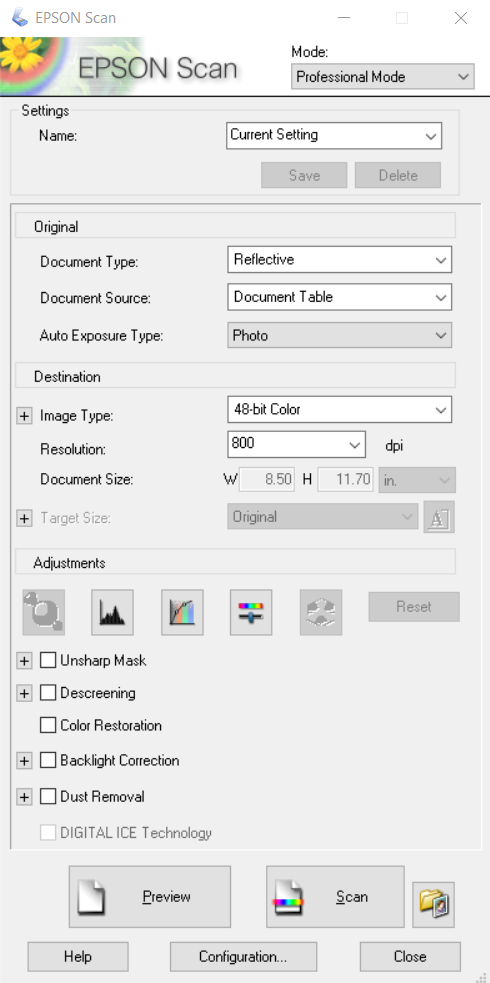
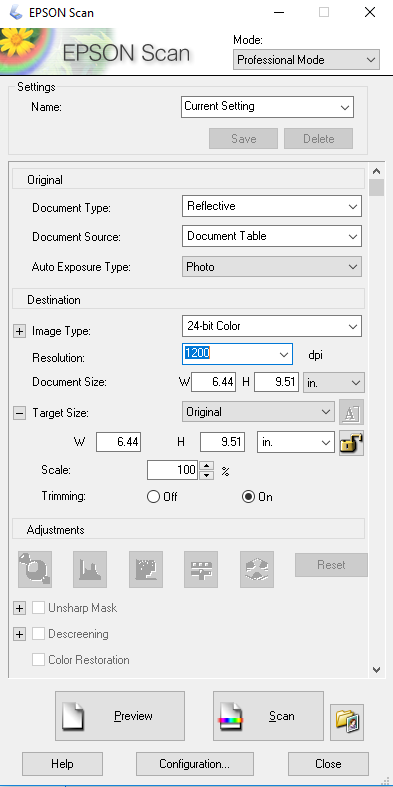
Tons of edits from Hubz

diff --git a/content/getting-started/scanning-standards.md b/content/getting-started/scanning-standards.md
@@ -9,13 +9,19 @@ For most purposes, outside of photographs or slides, 24-bit color is sufficient 
 
 The purpose of 48-bit is for primarily reducing banding in smooth vignette/gradients while doing color and gradation (curves) adjustments in image editing programs. However the vast majority of game media (Boxes, Manuals, Labels etc.) were screen printed which means the artwork consists of CMYK dots. These are solid color dots mixed together which don’t produce vignettes/gradients.  If you zoom in on a 1200DPI scan at 100% you can easily make out the dots. A zoomed in 1200DPI scan will look a lot like what you’d see with a microscope on the physical item you’re scanning.
 
-We will keep the table of scanning standards as is, but leave it up to you, dear reader, to decide how you want to proceed.
+## What quality should I choose?
 
-## Scanning standards
+We will keep the table of scanning standards as is, but leave it up to you, dear reader, to decide how you want to proceed. The **Good** tier is required for the scan to be considered a VGPC/VGSC scan, and the **Overkill is not needed for our purposes right now**.
 
-| Tier	| Purpose of Tier	| DPI	|Bit Depth	|Format	|Post Processing	|Pre Processing	|ICC Profile	|RAW Files	|Inscan Color Swatches	|Flattening |
-|-|-|-|-|-|-------------------|---------------|---------------|-----------|-----------------------|------------|
-|Gold / Mastering	| To reproduce scanned media (digitally and physically) as close to the original as possible.	|1200 minimum 	|48	|TIFF + any (lossless) compression	|None - cropping OK	|None	|Calibrated for individual scanner	|Y	|Y	|No - HIGHLY encouraged (copper plates preferred). Media Compressed for 10 mins prior to, then while scanning|
-|Silver  |Preserve an artifact with a fair degree of reproduction	|1200	|48	|TIFF + any (lossless) compression	|None - cropping OK	|None	|Calibrated for individual scanner or Using generic profile for specific scanner model  |Y  |N 	|No|
-|Bronze	|Best Effort settings	|600	|24	|PNG or TIFF + any (lossless) compression	|None - cropping OK	|None	|Calibrated for individual scanner or  Using generic profile for specific scanner model	|Y	|N	|No|
-|Copper	|Catch and catalog all scanned video game related media for later rescanning	|Below 600 true / optical <br/> Any and all interpolated	|Any	|Any	|Any	|Any	|Any	|Y or N	|N	|No|
+## Color guides and flattening
+
+For the **Tiffen/Kodak Q-13 Color Separation Guides**, we recommend scanning in the guide as a separate scanned  image with the batch of items that are being scanned that date. Preferrably name that specific scan with the date for easy tracking.
+
+Regarding **Flattening**, it is _highly_ encouraged (copper plates preferred), but not required. Media can be compressed for 10 mins prior to, then while scanning (adding weight on top of the scanner). If your media is too bent or creased and no flattening will work, scan it anyway. A bent scan is better than no scan.
+
+## Scanning standards and requirements
+
+| Tier | Purpose of Tier | DPI | Bit Depth |Format |Post Processing | Pre Processing | ICC Profile |RAW Files	| Tiffen/Kodak Q-13 Color Separation Guide |Flattening |
+|--------|------------------|-|-|-|-------------------|---------------|---------------|-----------|-----------------------|------------|
+| Overkill | To reproduce scanned media (digitally and physically) as close to the original as possible.	| 1200 minimum | 48 | TIFF + any (lossless) compression	| None - cropping OK | None | Calibrated for individual scanner | Y | Y | No |
+| Good | Preserve an artifact with a good degree of reproduction | 1200 | 24 | PNG, due to its compression savings and compatibility | None - cropping OK | None | Calibrated for individual scanner or Using generic profile for specific scanner model | Y | N | No |

diff --git a/content/software/vuescan.md b/content/software/vuescan.md
@@ -5,25 +5,29 @@ weight: 3
 
 ## Scanning RAW Images with VueScan
 
+Vuescan is really only recommended when you’re unable to use your built in scanner software such as Epson Scan or CanoScan. This is due to the fact that the manufacturer's software is tuned to get the best results from their own hardware and it’s also free. However this isn’t always possible with some older scanner models or when using Linux. Vuescan can still be used but it’s a bit trickier to use and might be unstable. It’s also unfortunately not free and for our uses you’ll need to purchase the Professional Edition for it’s RAW scanning capabilities. Below are instructions on properly configuring Vuescan for our uses.
+
 Open up VueScan and make sure to set the Input tab with the following settings. Also below is a screenshot of how it _might look_ (Options differ depending on scanner model used).
 
-1. Options: Professional
-2. Task: Profile Scanner
-3. Bits per pixel: 24 bit RGB (You can do up to 48 bit RGB if you like but it is not required.)
-4. Scan resolution: Custom
-5. Scan dpi: 1600 for Epson brand scanners, 1200 for Canon brand scanners. 600dpi is acceptable only if you're unable to go higher without image issues, or what you're scanning is in great shape and undamaged.
-6. Source: Make sure your scanner is visible / selected.
+1. **Options**: Professional
+1. **Task**: Scan to File
+1. **Bits per pixel**: 24 bit RGB (You can do up to 48 bit RGB if you like but it is not required. Also a big GOTCHA with Vuescan and 48-bit is that if you cannot create an IT8 profile for your scanner DO NOT scan in 48-bit. Vuescan’s 48-bit RAW scans alters the curves and gamma of your scans that are difficult to fix without a proper IT8 calibration. Please only use 24-bit if you’re not going to do IT8 calibration!)
+1. **Scan resolution**: Custom
+1. **Scan DPI**: 1200DPI or 1600DPI (Depends what your scanner will allow you to pick, go 1200 if you can)
+1. **Source**: Make sure your scanner is visible / selected.
 
-![image](/img/VueScan1.jpg)
 
-7. Next ensure the "Crop" tab is set to "Crop size: Auto".
-8. Finally in the "Output" tab make the following changes:
-9. Uncheck "PDF file".
-10. Check "Raw file".
-11. Tiff file type: "24 bit" (You can do up to 48 bit RGB if you like but it is not required.)
-12. Raw output with: "Scan"
+![image](/img/VueScan1.png)
+
+1. Next ensure the “Crop” tab is set to “**Crop size**: Manual”.
+1. Finally in the “**Output”** tab make the following changes:
+1. Make sure “**Raw file**” is the only thing checked for file type.
+1. **Raw file type**: 24 bit (You can do up to 48 bit RGB if you like but it is not required.)
+1. **Raw output with**: Scan
+1. **Raw Compression**: Off
 
 ![image](/img/VueScan2.png)
 
-13. In the upper left app menu choose "File" > "Save Settings".
-14. In the bottom left of the app choose "Preview" to see your scan, this might not look like your final output, however don't worry if the preview looks off, go ahead and draw your cropping box around your image and select the Scan button. If your output looks like a dark RAW image you're good to go!
+11. **Make sure to save your settings.**
+
+In the bottom left of the app choose “**Preview**” to see your scan, this might not look like your final output, however don’t worry if the preview looks off, go ahead and draw your cropping box around your image and select the Scan button. Double check that your scanned image is the proper DPI and color bit depth and you’re good to go!

diff --git a/content/software/canoscan-9000f-mark-ii.md b/content/software/canoscan-9000f-mark-ii.md
@@ -1,5 +1,5 @@
 ---
-title: CanoScan 9000F Mark II
+title: CanoScan
 weight: 1
 ---
 
@@ -8,9 +8,7 @@ weight: 1
 This guide is for scanning based off our experience with a CanoScan 9000F Mark II.
 This may or may not be able to be applied to other Canon scanners.
 
-
-If you're unable to use Vuescan, then you'll need to install the CanoScan software that came with your scanner.
-This should include software called "ScanGear" or "Canon IJ Scan Utility". When opened it will look like this:
+You’ll need to install the CanoScan software that came with your scanner. This should include software called “ScanGear” or “Canon IJ Scan Utility”. When opened it will look like this:
 
 ![image](/img/Canon1.png)
 
@@ -18,32 +16,34 @@ Click the ScanGear button on the right side to get started. You'll be presented 
 
 ![image](/img/Canon2.png)
 
-To get a clean untouched RAW scan at the best quality we're going to need to adjust settings.
+## Advanced settings
+
+To get a clean untouched RAW scan at the best quality we're going to need to adjust settings. It’s best to click the Advanced Mode tab along the top to begin with. You’ll want to set your settings to the following:
+
+* Color Mode - 24-Bit is fine, but if you want to do 48-bit there are instructions in the section after this one on how to enable.
+* Output Resolution - 1200DPI
+* Unsharp Mask - Off
+* Descreen - Off
+* Reduce Dust and Scratches - None
+* Grain Correction - None
+* Gutter Shadow Correction - None
+
+The result of these settings will be a RAW scanner sensor output. It will result in a “flat” color profile that may not look pretty and fairly dull. However, this preserves the untouched image data for archival purposes and with an IT8 profile we can create and attach later it will look much better.
+
+Now you are ready to scan in your items in high quality with your CanoScan 9000F Mark II!
+
+## Enabling 48-bit (not required)
+
+If you want to enable 48-bit scanning continue below. **Again this is NOT required**. 
 
 1. Click the Advanced Mode tab along the top if you're not in that mode already.
-2. Click the Preferences button along the bottom of the screen.
-3. Go to the Scan tab of the Preferences window.
-4. Make sure **Enabled 48/16 bit Output** is checked.
+1. Click the Preferences button along the bottom of the screen.
+1. Go to the Scan tab of the Preferences window.
+1. Make sure **Enabled 48/16 bit Output** is checked.
 
 See highlighted picture below:
 
 ![image](/img/Canon3.png)
 
-5. Click the Color Settings tab
-6. Mark the **None** option and adjust the **Monitor Gamma** setting to 1.00.
+This will allow you to select 48-bit mode from your Canon Scanner if you choose to do so in the main scanner window.
 
-See highlighted picture below:
-
-![image](/img/Canon4.png)
-
-Click OK and you'll get back to the scanning screen. We'll need to make a few more adjustments here, but it should remember them from here on and you'll be ready to scan!
-
-7. In the **Color Mode** drop down menu, make sure it's set to **Color(48bit)**.
-8. Set your output resolution to at least **900dpi**.
-9. Make sure all **Image Settings** are **turned off** or set to **None**.
-
-See highlighted picture below:
-
-![image](/img/Canon5.png)
-
-Now you are ready to scan in your items in high quality with your CanoScan 9000F Mark II.

diff --git a/content/calibration/why.md b/content/calibration/why.md
@@ -5,17 +5,27 @@ weight: 1
 
 To get the **best possible color scans** from your scanner you need to calibrate it. This is quite involved and requires you to order an IT8 calibration card (see below). 
 
-RAW scans without being calibrated are still valuable, however if there is an ICC or ICM file attached to the scan, it makes reproducing the correct colors during post-processing much easier.
+Without calibration your scans will tend to look flat and lifeless. Calibration is something we strongly encourage you to do if you can. If you’re unable to, we might be able to provide scanner calibrated ICC/ICM files that others have done for your scanner model, but ideally you would want to calibrate your own scanner every 3-6 months. That being said RAW scans without being calibrated are still valuable, however if there is an ICC or ICM file attached to the scan, it makes reproducing the correct colors during post-processing much easier.
 
-If you're willing to go through the trouble of aquiring an IT8 calibration card and creating a profile for your scanner, that's great!
+If you’re willing to go through the trouble of acquiring an IT8 calibration card and creating a profile for your scanner, that’s great!
 
-We'll go through how to calibrate and get an ICC/ICM file that you can use later in photo editing software such as Adobe PhotoShop or GIMP, for your scans to be color calibrated to our specific scanner. There are CanoScan 9000F Mark II calibrated files provided if you happen to use that model. It *should* be better than nothing if you're unable to calibrate your own. If others want to add their scanner model calibrated files for other models please [create a PR][pr] or contact @jonasrosland or @Hubz in the [Discord][discord].
+## Scanner Profiles
+
+We’ll go through how to calibrate and get an ICC/ICM file that you can use later in photo editing software such as Adobe PhotoShop or GIMP, for your scans to be color calibrated to our specific scanner. If you have a calibrated a scanner we haven’t and would like to submit your scanner model calibrated files for other models please [create a PR][pr] or contact @jonasrosland or @Hubz in the [Discord][discord]. Here’s a list of what we currently have:
+
+[Epson V550][V550]
+[Epson Expression 10000XL][10000XL]
+[Canon Canoscan 9000F Mark II][9000F]
+
+## Where to get an affordable IT8 card
+Order an [IT8 Card from here][1]. Make sure you order the R1 option. Also take note of the Charge# as you'll need to download that target.it8 file from the bottom of this page that matches up to that.
 
 ![image](https://upload.wikimedia.org/wikipedia/commons/c/c0/IT8_color_target_by_EGM_Laboratories.jpg?width=40pc)
 
-## How to get an affordable IT8 card
-Order an [IT8 Card from here][1]. Make sure you order the R1 option. Also take note of the Charge# as you'll need to download that target.it8 file from the bottom of this page that matches up to that.
 
 [1]: http://www.targets.coloraid.de/
 [discord]: https://discord.gg/AHTfxQV
 [pr]: https://github.com/hitsave/scanning.guide
+[V550]: https://archive.org/details/EpsonPerfectionV550ICCICMProfiles
+[10000XL]: https://archive.org/details/Epson10000XLICMFile
+[9000F]: https://archive.org/details/canon9000fmarkiiiccicm

diff --git a/content/calibration/rough-profiler.md b/content/calibration/rough-profiler.md
@@ -7,15 +7,14 @@ weight: 5
 
 **What you'll need:**
 
-1. A computer: Windows, MacOS, or Linux.
-2. An [IT8 Color Card][it8] (choose "R1" option). Download the .it8 file for it as well from the same webpage, you can find the right zip to download by looking for the "Charge" number on your card (example: R131209) and searching for that number on the website. Unzip to somewhere were you can easily find it.
-3. Install Rough Profile scanning software:
-    [For macOS ][roughmac]
-    [For Windows (alpha)][roughwin]
+* A computer with either Windows or MacOS
+* The Reference File for your IT8 target.
+* RAW Scan of your IT8 card done in the same way you plan on scanning your boxes/manuals. (Same scanning software, same color bit depth)
+* You can download the Reference File for your IT8 target  from the same place you ordered it - http://www.targets.coloraid.de/. Simply scroll down to the section labeled “Download Reference Files” and under R1 looks for the Charger number printed on your IT8 target (example: R131209) and download and unzip that file. 
 
-**Calibration:**
-
-1. Test Chart - point to the RAW image of the card you scanned.
+* Install Rough Profile scanning software:
+  * [For macOS][roughmac]
+  * [For Windows (alpha)][roughwin]
 
 Here's how it looks on Windows:
 ![image](/img/rough-calibration-win1.png?width=40pc)
@@ -23,13 +22,24 @@ Here's how it looks on Windows:
 Here's how it looks on Mac:
 ![image](/img/rough-calibration-mac.jpg?width=40pc)
 
-2. Fill out Manufacturer and Model.
-3. Under **Advanced** make sure **Gamma is set to 1.0**
+**Calibration:**
+
+Upon launching you’ll need to set some options -
+
+1. **Chart Type**: IT8
+1. **Test Chart**: point to the RAW image of the card you scanned.
+1. **Reference**: Point to the .txt file you unzipped from your downloaded Reference file section mentioned above.
+1. **Quality**: High
+1. Fill out Manufacturer and Model of the scanner as well as a Profile Name. It can fail if this isn’t done for some silly reason.
+
+**NOTE** if you scanned in your IT8 target in Vuescan in 48-bit Color mode you’ll need to go to the Advanced Tab and set your Test Chart Gamma to 1.0. This is due to Vuescan stripping out the Gamma when set to this setting for some reason. (If you’re unsure just look at your IT8 card scan if it is very dark this is likely the case)
 
 ![image](/img/rough-calibration-win2.png?width=40pc)
 
-4. Once all that is set in Rough Profiler you click **Create It!** and wait a bit
-5. It should now have highlighted lines around your color squares and say finish!
+Once all that is set in Rough Profiler you click **Create It!** and wait a bit. It should now have highlighted lines around your color squares and say finish!
+
+**NOTE** If it errors out you may need to rescan your IT8 card. Make sure it’s straight as it can be, also that you cropped it well and that you didn’t scan it in a higher resolution than 800DPI. Also make sure you filled in the Profile Name, Manufacturer and Model fields. These are common issues in Rough Profiler. If it continues to fail I recommend trying the ArgyIICMS method instead.
+
 
 ![image](/img/rough-calibration-win3.png?width=40pc)
 

diff --git a/content/preparation/placing-paper.md b/content/preparation/placing-paper.md
@@ -9,9 +9,8 @@ Scanners tend to have two corners of the actual scanning bed that cut off a lot 
 
 For example on the *CanoScan 9000F Mark II* the left and bottom sides of the scanner cut off a lot more than the top and right. If you're using a different model you'll need to do some test scans to figure out which sides it cuts off more in your case.
 
-
 ## Carpenter Squares & Rulers
-These are great for scanning boxes due to their thickness but usually NOT manual pages as they are too thin and the pages can slide underneath. One recommendation is the [SHINWA CARPENTER'S SQUARE 30CM*15CM Model No. 12130][1]. It does require a trim on the 30CM side to fit the flatbed which is kind of tricky as it's stainless steel. However if you have the tools to do that it's a great solution as it's thinness fits within the scanner well.
+**These should only be used when scanning boxes or other thick items.** One recommendation is the [SHINWA CARPENTER'S SQUARE 30CM*15CM Model No. 12130][1]. It does require a trim on the 30CM side to fit the flatbed which is kind of tricky as it's stainless steel. However if you have the tools to do that it's a great solution as it's thinness fits within the scanner well.
 
 Another option that's easier to trim down but isn't as easy to lineup as a square is [CARL RM-12/2 12-Inch Cutting Mat for all 12-Inch Trimmers][2].
 
@@ -22,9 +21,9 @@ Example picture of Carpenter Square & Band-Aids:
 
 Now place your square/rules along the corner of your scanner which you know has more dead space, press your flattened boxes up against its corner to get a straight scan, and lower your flatbed lid. Place a heavy book or object on top of the scanner to flatten the box as much as possible and hit **Preview** on your scanning software. If the scan looks straight go ahead and scan it! If not readjust and preview again until you're satisfied.
 
-## Bandaids
+## Playing cards and index cards
 
-Great for manual pages as they stop most pages from slipping underneath. These can be tricky to lineup, and you'll want to use small thin ones and place them along the edge of your scanner. Try to get them as straight as possible. They should then easily catch your manual pages when you scan them. Remember to **REMOVE your square or ruler** before scanning your manual pages, as its thickness will block the manual pages from getting as flat as possible. 
+Playing cards and index cards pressed along the sides of the scanner, can help with paper thin materials such as manuals. If you are going to scan a lot of manuals, and have extra funds (as they are not cheap) it might be worth looking into an Automatic Document Feeder (ADF) scanner.
 
 Another important point when scanning a manual, consider removing the staples for a higher quality scan. Again place a book or something heavy to get the scan as flat as possible, and do a preview before scanning to make sure the manual pages are straight enough. These are notoriously hard to get straight so just do your best.
 

diff --git a/content/calibration/how-to.md b/content/calibration/how-to.md
@@ -3,21 +3,20 @@ title: How to
 weight: 2
 ---
 
-Get a **RAW scan** of your IT8 card. If you have gone through the [Software](/software) part of the guide,you should be able to use Canon or Epson scanning software to get a RAW scan of your card. VueScan is a bit different and is an all in one step, please see the link below. Your scan should look quite dark and somewhat similar to this image.
+The first step to calibration is getting a scan of your IT8 card. If you have gone through the [Software](/software) part of the guide,you should be able to use Canon, Epson, or Vuescan scanning software to get a RAW scan of your card. 600-800DPI are recommended as the calibration software sometimes has issues with high resolution scans at 1200DPI or higher. Crop around the card so there’s no whitespace. If you crop into the card a bit it’s okay as long as it’s within the initial grey border. 
+
+The biggest key to this is to scan your IT8 target in exactly the same way you plan to scan your boxes/manuals etc. So if you’re planning on scanning 24-bit in Epson Scan, you’ll need to scan your IT8 target the exact same way. If you’re planning on doing 48-bit sometimes as well then you’ll need to scan and calibrate a separate ICM file for that. It’s really up to how you want to do it. For most users just one calibration file will be all that’s needed because you’ll likely always use the same settings when scanning.
+
+Your scan should look quite dark and somewhat similar to this image:
 
 ![image](/img/vuescanraw.jpg?width=40pc)
 
 Now that you a RAW Scan you need to run it through calibration software. Here are a few options we recommend:
 
-1. [Vuescan (Windows, Mac, Linux)][1]
 2. [Rough Profiler (Windows & Mac)][2]
 3. [ArgyII Color Management System (Linux)][3]
 
-The output from VueScan and Rough Profiler/ArgyIICMS can vary, but all will greatly improve the color accuracy of your scans. Pick the solution that works for you. There is a way to benchmark your results to see which is technically more correct, see [this tutorial][4].
-
-It's alwaus best to calibrate your own scanner and get an ICC/ICM file that way, but if you have the same model as one below you can try to apply these calibrated files and see how it looks.
-
-[CanoScan 9000F Mark II Color Calibrated Profiles (Vuescan and Rough Profiler)][10]
+The output from Rough Profiler/ArgyIICMS can vary, but all will greatly improve the color accuracy of your scans. Pick the solution that works for you. There is a way to benchmark your results to see which is technically more correct, see [this tutorial][4].
 
 [1]: /calibration/vuescan
 [2]: https://www.preservegames.org/2018/08/calibration-for-scanning-with-rough.html

diff --git a/content/software/epson-scan.md b/content/software/epson-scan.md
@@ -5,21 +5,24 @@ weight: 2
 
 ## Scanning RAW (Uncalibrated) with Epson-brand Scanners
 
-Software and Settings
-Download the "[Scanner Driver and Epson Scan 2 Utility][1]".
+Your Epson scanner likely came with the appropriate software for it but if you want to get the latest version or don’t have your install disc you’ll need to go to [Epson's support page][2] and find your scanner model then look in the downloads section for Epson Scan and download and install it. The version showed below is the Epson Scan for the V550 but others are likely similar.
 
-Start "Epson Scan", and configure it with these settings:
+
+## Settings
+
+Basically you want to set your scanning resolution to 1200DPI, and either 24-bit or 48-bit color depending on which you want to do. Then turn off ANY adjustments such as Unsharp Mask, Descreening, or Color Restoration. Be warned if you want to go 48-bit you will likely run into issues scanning larger things as Epson Scan seems to have a limit at 48-bit with these. If you are dead set on doing 48-bit with your Epson scanner you’ll most likely have to use the Vuescan software insead.
+
+See image below:
 
 ![image](/img/Epson1.png)
 
 Then, continue with these settings:
 1. Click on "**Configuration**" at the bottom center of the app
-2. Choose "**No Color Correction**", then "OK" to close out.
+1. Choose "**No Color Correction**", then "OK" to close out.
+1. Now that you're all set up, press "Scan" on the app.
+1. A new window will pop up, make sure Image Format Type is set to "**TIFF**".
 
-Now that you're all set up, press "Scan" on the app.
-
-3. A new window will pop up, make sure Image Format Type is set to "**TIFF**".
-
-The result of these settings will be a RAW scanner sensor output. It will result in a "flat" color profile that may not look pretty and fairly dark. However, this preserves the most image data for archival purposes.
+The result of these settings will be a RAW scanner sensor output. It will result in a “flat” color profile that may not look pretty and fairly dull. However, this preserves the untouched image data for archival purposes and with an IT8 profile we can create and attach later it will look much better.
 
 [1]: https://epson.com/Support/Scanners/Perfection-Series/Epson-Perfection-V550-Photo/s/SPT_B11B210201
+[2]: https://epson.com/Support/Scanners/sh/s2

diff --git a/content/calibration/argyii.md b/content/calibration/argyii.md
@@ -3,14 +3,22 @@ title: ArgyII CMS instructions
 weight: 5
 ---
 
-Download and install [ArgyII CMS from here][1].
+What you’ll need:
+* A computer with Windows, MacOS, or Linux.
+* The Reference File for your IT8 target.
+* RAW Scan of your IT8 card done in the same way you plan on scanning your boxes/manuals. (Same scanning software, same color bit depth)
+* You can download the Reference File for your IT8 target  from the same place you ordered it - http://www.targets.coloraid.de/. Simply scroll down to the section labeled “Download Reference Files” and under R1 looks for the Charger number printed on your IT8 target (example: R131209) and download and unzip that file. 
+* Download and install [ArgyII CMS from here][1].
 
-Run the following command on your RAW image of the IT8 card called `scan.tif`, together with the `target.it8` that you got when you purchased the card.
+You’ll need to run the command below on your RAW image of the IT8 card, together with the Reference File for your IT8 Target. Within that file you’ll find the chargenumber.txt file for the command below.
+
 
 ```bash
-scanin scan.tif target.it8
+scanin (your-it8-scan).tif (charge-file-number).txt
 
 colprof -qh scanin_output
 ```
+
+If everything went well you should now have an ICM or ICC file. If not try rescanning your card and repeating the steps. 
 
 [1]: https://www.argyllcms.com/

diff --git a/content/getting-started/what-where-to-buy.md b/content/getting-started/what-where-to-buy.md
@@ -20,11 +20,9 @@ Some Recommended Scanners:
 * Canon Canoscan 9000F Mark II
 * Plustek OpticPro A320
 
-The **Epson Perfection v550** scanner is the sweet spot prise wide. Another scanner often mentioned in the same breath is the Epson Perfection v600, however it doesn't offer any added useful features or benefits for our purposes.
+The **Epson Perfection v550** scanner is the sweet spot pricewise. Another scanner often mentioned in the same breath is the Epson Perfection v600, however it doesn't offer any added useful features or benefits for our purposes.
 
 The Epson v550 is available through [B&H Photo][1], [Best Buy][2], and you can sometimes find them refurbished from [Epson][3].
-
-Another solid option is the Canon CanoScan 9000F Mark II. It's around the same price as the Epson and has similar features.
 
 To interface with the scanner, you will need scanning software compatible with your computer. Most scanners come with their own complementary software which will give you some advanced options, and there is also [VueScan][4] which is compatible with Windows, Mac, and Linux OS. See the Software section for further details on set-up for your program of choice.
 
